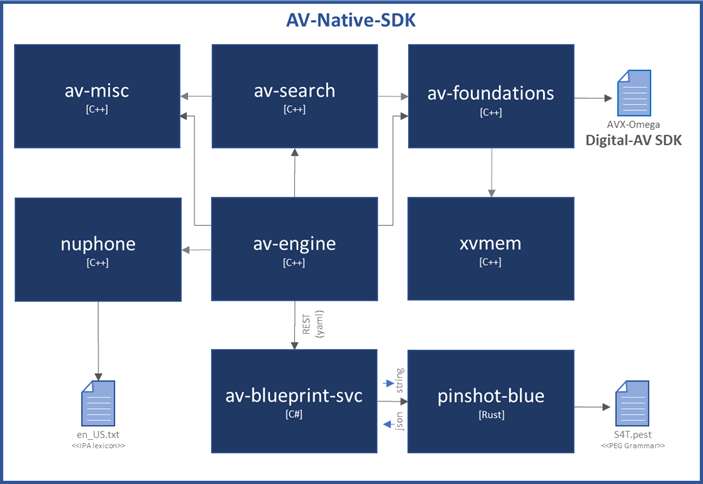
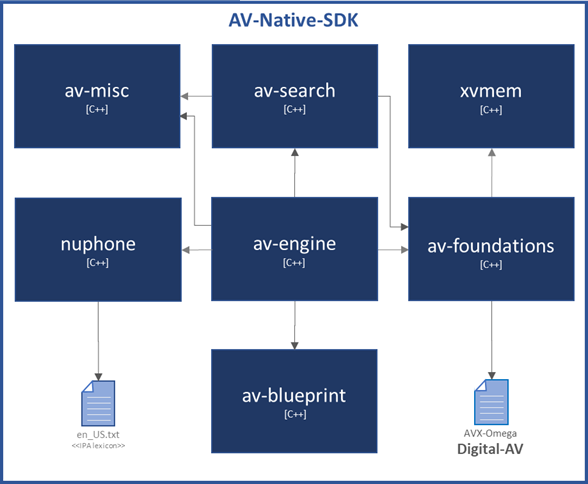
Removed references to swift

diff --git a/README.md b/README.md
@@ -38,7 +38,7 @@ With respect to the Digital-AV, you can rely on its foundation. With countless d
 
 ### What's next?
 
-The Digital-AV native Framework represents a radical step forward, at the same time as it reaches back to its roots. It began in 1995 as a fast & lean KJV search tool for Windows (written in Microsoft C++ and Borland Delphi).  The modern framework is still fast & lean. They say, "The more things change, the more things stay the same." This cliche applies here. AV-Engine is back! Unlike the earlier AVX-Framework, it is natively compiled (this time with platform-portable C++ and platform-portable swift). Once again, the GUI will be walled off from the engine. The GUI is still under investigation. A Swift implantation on Mac and a Flutter implementation on Windows are being considered. A multi-platform Qt C++ is also under consideration.  Initial implementation as a native web-app behind a hardened reverse-proxy is the most likely first implementation.
+The Digital-AV native Framework represents a radical step forward, at the same time as it reaches back to its roots. It began in 1995 as a fast & lean KJV search tool for Windows (written in Microsoft C++ and Borland Delphi).  The modern framework is still fast & lean. They say, "The more things change, the more things stay the same." This cliche applies here. AV-Engine is back! Unlike the earlier AVX-Framework, it is natively compiled (this time with platform-portable C++). Once again, the GUI will be walled off from the engine. The GUI is still under investigation. A Swift implantation on Mac and a Flutter implementation on Windows are being considered. A multi-platform Qt C++ is also under consideration.  Initial implementation as a native web-app behind a hardened reverse-proxy is the most likely first implementation.
 
 ### Native Modularity *(and almost dependency free)*
 
@@ -48,28 +48,41 @@ All dependencies are self-contained and opaque. Nevertheless, modules that compo
 
 ![](AV-Native-SDK.png)
 
-**Figure 1**: The Digital-AV native Framework dependency diagram [rev #5424]
+**Figure 1-1**: The Digital-AV native Framework overview [rev #5424]
 
-Evidenced by Figure 1, serialization is used for parameters when crossing from Swift into native Rust. Parameter serialization, for in-proc cross-language invocation, is used in lieu more granular parameter-marshalling, because it is both more efficient and less fragile than marshalling. All other method invocations utilize POCO (plain old C++ objects). The table in Figure 2 identifies repository references, OS dependencies and/or runtime when applicable, and implementation/computer language of the library.
+Evidenced by Figure 1-2, serialization is used for parameters when crossing from Swift into native Rust. Parameter serialization, for in-proc cross-language invocation, is used in lieu more granular parameter-marshalling, because it is both more efficient and less fragile than marshalling. All other method invocations utilize POCO (plain old C++ objects). The table in Figure 2 identifies repository references, OS dependencies and/or runtime when applicable, and implementation/computer language of the library.
 
-In all cases, only 64-bit chipsets are supported. For Mac this means M1, M2, M3, M4, etc. For Windows this means x64 or ARM64.
+![](AV-Native-Blueprint.png)
 
-| **Module**  *(repository)*<br/>source code folder            | Branch | Supported OS  | Language                       |
-| ------------------------------------------------------------ | ------ | ------------- | ------------------------------ |
-| **Digital-AV** *([github.com/kwonus/Digital-AV](https://github.com/kwonus/Digital-AV))* | master | Mac & Windows | any<br/>(file deserialization) |
-| **av-foundations** *([github.com/kwonus/Digital-AV/omega/foundations/c](https://github.com/kwonus/Digital-AV/tree/master/omega/foundations/c))* | main   | Mac & Windows | C/C++                          |
-| **av-misc** *([github.com/kwonus/AV-Native-SDK/cpp](https://github.com/kwonus/AV-Native-SDK/tree/main/cpp))* | main   | Mac & Windows | C/C++                          |
-| **xvmem** *([github.com/kwonus/XVMem](https://github.com/kwonus/XVMem))* | master | Mac & Windows | C/C++                          |
-| **nuphone** *([github.com/kwonus/AV-Native-SDK/swift/nuphone](https://github.com/kwonus/AV-Native-SDK/tree/main/swift/nuphone))* | main   | Mac & Windows | C/C++                          |
-| **pinshot-blue** *([github.com/kwonus/pinshot-blue](https://github.com/kwonus/pinshot-blue))* | main   | Windows       | Rust                           |
-| **av-blueprint-rpc** *([github.com/kwonus/AV-Native-SDK/swift/blueprint-blue](https://github.com/kwonus/AV-Native-SDK/tree/main/swift/blueprint-blue))* | main   | Windows       | C#                             |
-| **av-search** *([github.com/kwonus/AV-Native-SDK/swift/av-search](https://github.com/kwonus/AV-Native-SDK/tree/main/swift/av-search))* | main   | Mac & Windows | C/C++                          |
-| **av-engine** *([github.com/kwonus/AV-Native-SDK/swift/av-engine](https://github.com/kwonus/AV-Native-SDK/tree/main/swift/av-engine))* | main   | Mac & Windows | C/C++                          |
-| **AV-2025** UI *(TBD)*                                       | main   | Mac & Windows | Flutter                        |
+**Figure 1-2**: The Digital-AV native Framework external dependencies [rev #5424]
 
-**Figure 2**: The Digital-AV native Framework input and output definition and repository details [rev #5415]
+Evidenced by Figure 1-2, serialization is used for parameters when crossing from C# into native Rust. Parameter serialization, for in-proc cross-language invocation, is used in the Blueprint-Blue library.
 
+The table in Figure 2-1 identifies repository references of the native framework, along with list of supported operating systems.
 
+The table in Figure 2-2 identifies external dependencies of the native framework, along with list of supported operating systems.
+
+| **Module**  *(repository)*<br/>source code folder            | Branch | Supported OS  | Language |
+| ------------------------------------------------------------ | ------ | ------------- | -------- |
+| **av-misc** *([github.com/kwonus/AV-Native-SDK/misc](https://github.com/kwonus/AV-Native-SDK/tree/main/misc))*<br>Cross-Platform library *(miscellaneous utilities)* | main   | Mac & Windows | C/C++    |
+| **nuphone** *([github.com/kwonus/AV-Native-SDK/nuphone](https://github.com/kwonus/AV-Native-SDK/tree/main/nuphone))* | main   | Mac & Windows | C/C++    |
+| **av-blueprint** *([github.com/kwonus/AV-Native-SDK/av-blueprint](https://github.com/kwonus/AV-Native-SDK/tree/main/av-blueprint))*<br/>dependency: Blueprint-Blue-RPC | main   | Mac & Windows | C/C++    |
+| **av-search** *([github.com/kwonus/AV-Native-SDK/av-search](https://github.com/kwonus/AV-Native-SDK/tree/main/av-search))* | main   | Mac & Windows | C/C++    |
+| **av-engine** *([github.com/kwonus/AV-Native-SDK/av-engine](https://github.com/kwonus/AV-Native-SDK/tree/main/av-engine))* | main   | Mac & Windows | C/C++    |
+| **AV-2025** UI *(TBD)*                                       | main   | Mac & Windows | Flutter  |
+
+**Figure 2-1**: The Digital-AV native Framework input and output definition and repository details [rev #5426]
+
+| **Module**  *(repository)*<br/>source code folder            | Branch | Supported OS  | Language |
+| ------------------------------------------------------------ | ------ | ------------- | -------- |
+| **Digital-AV** *([github.com/kwonus/Digital-AV](https://github.com/kwonus/Digital-AV))*<br>Binary file that can be used to instantiate objects via deserialization | master | Mac & Windows | any      |
+| **av-foundations** *([github.com/kwonus/Digital-AV/omega/foundations/c](https://github.com/kwonus/Digital-AV/tree/master/omega/foundations/c))*<br/>Cross-Platform functional access the the Digital-AV binary | main   | Mac & Windows | C/C++    |
+| **xvmem** *([github.com/kwonus/XVMem](https://github.com/kwonus/XVMem))*<br/>Cross-Platform compatible shared-memory library | master | Mac & Windows | C/C++    |
+| **Blueprint-Blue-RPC** *([github.com/kwonus/Blueprint-Blue](https://github.com/kwonus/Blueprint-Blue))*<br/>gRPC/Protobuf wrapper around Blueprint-Blue-Lib | main   | Windows (x64) | C#       |
+| **Blueprint-Blue-Lib** *([github.com/kwonus/Blueprint-Blue](https://github.com/kwonus/Blueprint-Blue))*<br/>Converts S4T parses into an object model *(miscellaneous utilities)* | main   | Windows (x64) | C#       |
+| **pinshot-blue** *([github.com/kwonus/pinshot-blue](https://github.com/kwonus/pinshot-blue))*<br/>Search-for-Truth (S4T) PEG-based parser | main   | Windows (x64) | Rust     |
+
+**Figure 2-2**: External Dependencies of the Digital-AV native Framework [rev #5426]
 
 ### Internals
 
@@ -81,13 +94,9 @@ The Digital-AV native Framework simplifies access to the [Digital-AV SDK](https:
 
 NUPhone formalizes that algorithm and simultaneously embraces uncertainty in its formalism. NUPhone is part acronym and part blend, It stands for "<u>N</u>ormalized-<u>U</u>ncertainty <u>Phone</u>me" representation. Like the heads & tails algorithm, NUPhone incorporates an abbreviated phonetic inventory. Yet, the NUPhone representation utilizes only 8-bits per phoneme. In general, that is more compact than ASCII, because many English phonemes are represented by more than a single character. Cooler still, those 8-bits represent a tiny coordinate system. Using this manner of representation, sound similarity can be efficiently calculated with Manhattan-Distance. Things couldn't be more intuitive. Phoneme embeddings in only 8-bits, coverage of the full phonetic inventory for English, and the efficiency of fuzzy-comparisons without the overhead of floating-point arithmetic!
 
-### pinshot-blue internals
+### av-blueprint
 
-[pinshot-blue](github.com/kwonus/pinshot-blue) is an in-process Rust library with C-compatible FFI definitions. It is called by Blueprint-Blue using P/Invoke to perform the parse of a PEG grammar. The grammar itself is baked into Pinshot-Blue and implements the full specification of [Quelle-AVX](https://github.com/kwonus/Quelle/blob/main/Quelle-AVX.md). Pinshot-Blue is a lean native library that does just one thing: it converts a Quelle command into a parse tree using the [Pest crate](https://docs.rs/pest/latest/pest/). It returns the parse as text with the contents represented in JSON (a recursive representation of the parse).
-
-### blueprint-blue internals
-
-[Blueprint-Blue](github.com/kwonus/blueprint-blue) is a native library, implemented in swift. It uses standard Swift interfaces for parameters and the return types. However, the assembly also handles the P/Invoke calls into Pinshot-Blue. These two libraries work in tandem to produce the object model (aka blueprint) from the parse tree. AV-Engine is the consumer of Blueprint-Blue. Blueprint-Blue is in turn the consumer of Pinshot-Blue. These relationships are depicted in Figure 1. The OO model/blueprint is depicted in Figure 3-1. All green objects in the diagram relate to explicit Quelle commands. All purple objects in the diagram relate to implicit Quelle commands (search expressions are merely a component of an implicit Quelle command). All gray objects are neutral or shared.
+[av-blueprint](https://github.com/kwonus/AV-Native-SDK/tree/main/av-blueprint) is a C++ library that is a wrapper around a gRPC service that is implemented in C# and dotnet 8. the RPC service serializes all objects to Protobuf 3. In turn the Blueprint-Blue-RPC service depends on a native Rust library. Blueprint-Blue-Lib handles the P/Invoke calls into the Rust library [Pinshot-Blue]. Those layers are opaque to callers of av-blueprint and together the stack produces an object model (aka blueprint) from the parse tree. The OO model/blueprint is depicted in Figure 3-1. All green objects in the diagram relate to explicit Quelle commands. All purple objects in the diagram relate to implicit Quelle commands (search expressions are merely a component of an implicit Quelle command). All gray objects are neutral or shared.
 
 ![](QCommand.png)
 
@@ -101,11 +110,11 @@ The QFind object depicted above is almost a framework in itself. Figure 3-2 prov
 
 ### av-search internals
 
-To summarize Figure 1, Blueprint-Blue converts the pinshot [parse tree] from Pinshot-Blue into a blueprint [object model]. This blueprint is handed off to AV-Search, which returns search results as represented by the purple boxes of Figure 3-3.
+After a command is converted into a blueprint, that blueprint is handed off to av-search, which returns search results as represented by the purple boxes of Figure 3-3.
 
-As seen in Figure 3-2, the QFind class inherits from SearchExpression. Most levels inherit from the result objects for easier interop between Blueprint-Blue and AV-Search with AV-Engine.  The full QueryResult object hierarchy, depicted in Figure 3-3, streamlines rendering and highlighting operations for downstream clients of AV-Engine. All calls from AV-Engine to AV-Search are in-process. An earlier experiment, utilized a similar design that required serialization and native C++ code (It is unfinished, but available for review at [github.com/AV-Text/AVX]() ). That experiment has been tabled for now in favor of a fully .NET 8 library stack.
+As seen in Figure 3-2, the QFind class inherits from SearchExpression. Most levels inherit from the result objects for easier interop between av-blueprint and av-search with av-engine.  The full QueryResult object hierarchy, depicted in Figure 3-3, streamlines rendering and highlighting operations for downstream clients of av-engine. All calls from av-engine to av-search are in-process.
 
-Figure 3-3 reveals the entire QueryResult hierarchy. The purple objects offer both a summary of search results simultaneously with per-chapter results with metadata for highlighting and rendering.  The Dark Gray box is not part of the Query itself; instead, it manages access to instantiated queries. The design is forward looking for when AV-Engine sits behind a REST service. The QueryManager is not currently implemented in the in-proc implementations.
+Figure 3-3 reveals the entire QueryResult hierarchy. The purple objects offer both a summary of search results simultaneously with per-chapter results with metadata for highlighting and rendering.  The Dark Gray box is not part of the Query itself; instead, it manages access to instantiated queries. The design is forward looking for when av-engine sits behind a REST service. The QueryManager is not currently implemented in the in-proc implementations.
 
 ![](AVX-Results.png)
 
@@ -115,7 +124,7 @@ Figure 3-3 reveals the entire QueryResult hierarchy. The purple objects offer bo
 
 ### av-engine internals
 
-av-engine is a native library, implemented in swift. Once a Quelle object model (aka blueprint) is obtained for the search from the blueprint-blue library, it is passed to av-Search. Additional details about the object-model can be found in the [Quelle-AVX specification](https://github.com/kwonus/Quelle/blob/main/Quelle-AVX.md).
+av-engine is a native library, implemented in C++. Once a Quelle object model (aka blueprint) is obtained for the search from the av-blueprint library, it is passed to av-search. Additional details about the object-model can be found in the [Quelle-AVX specification](https://github.com/kwonus/Quelle/blob/main/Quelle-AVX.md).
 
 ### Development Roadmap
 
